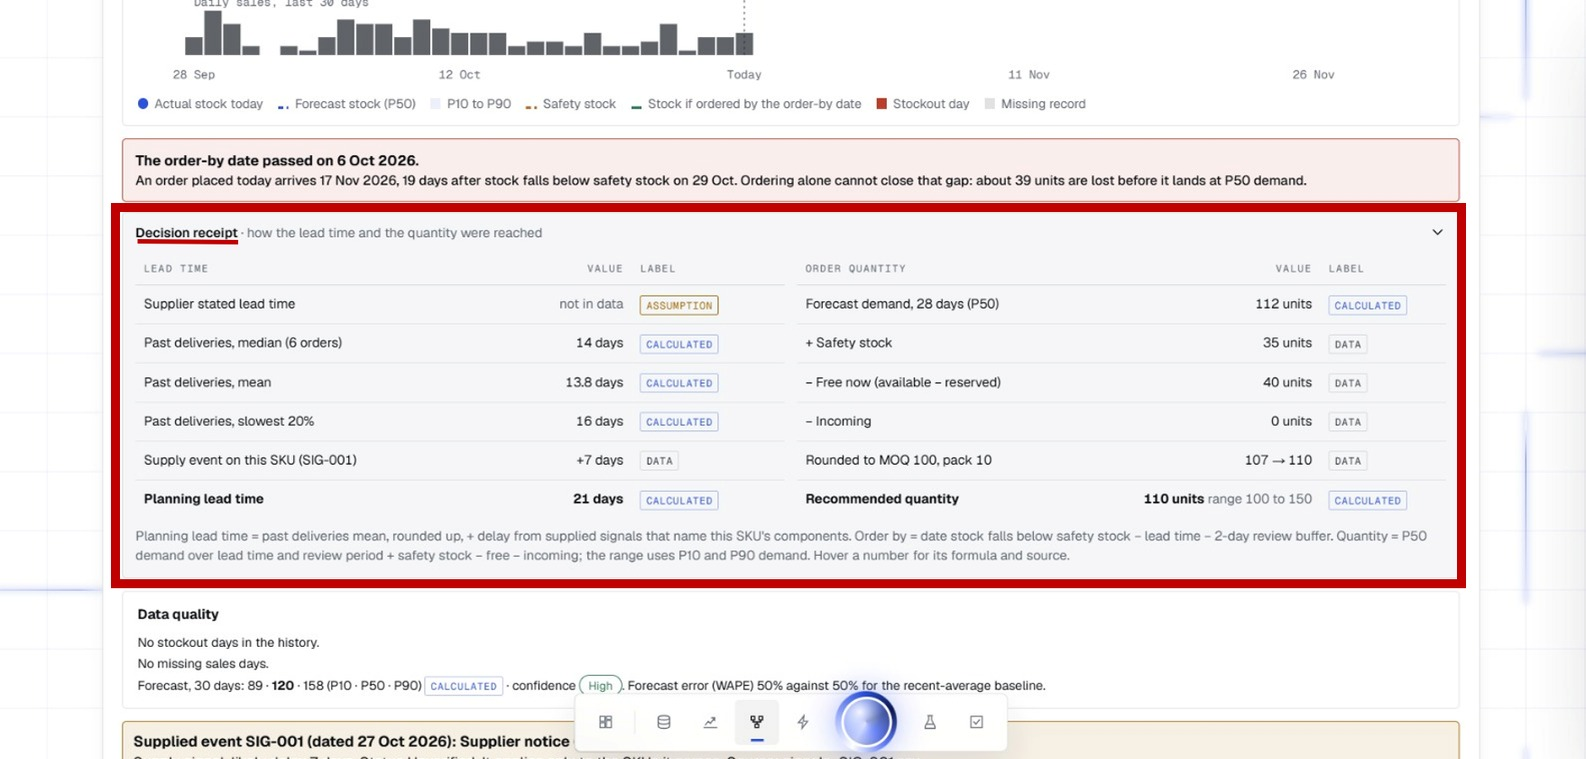
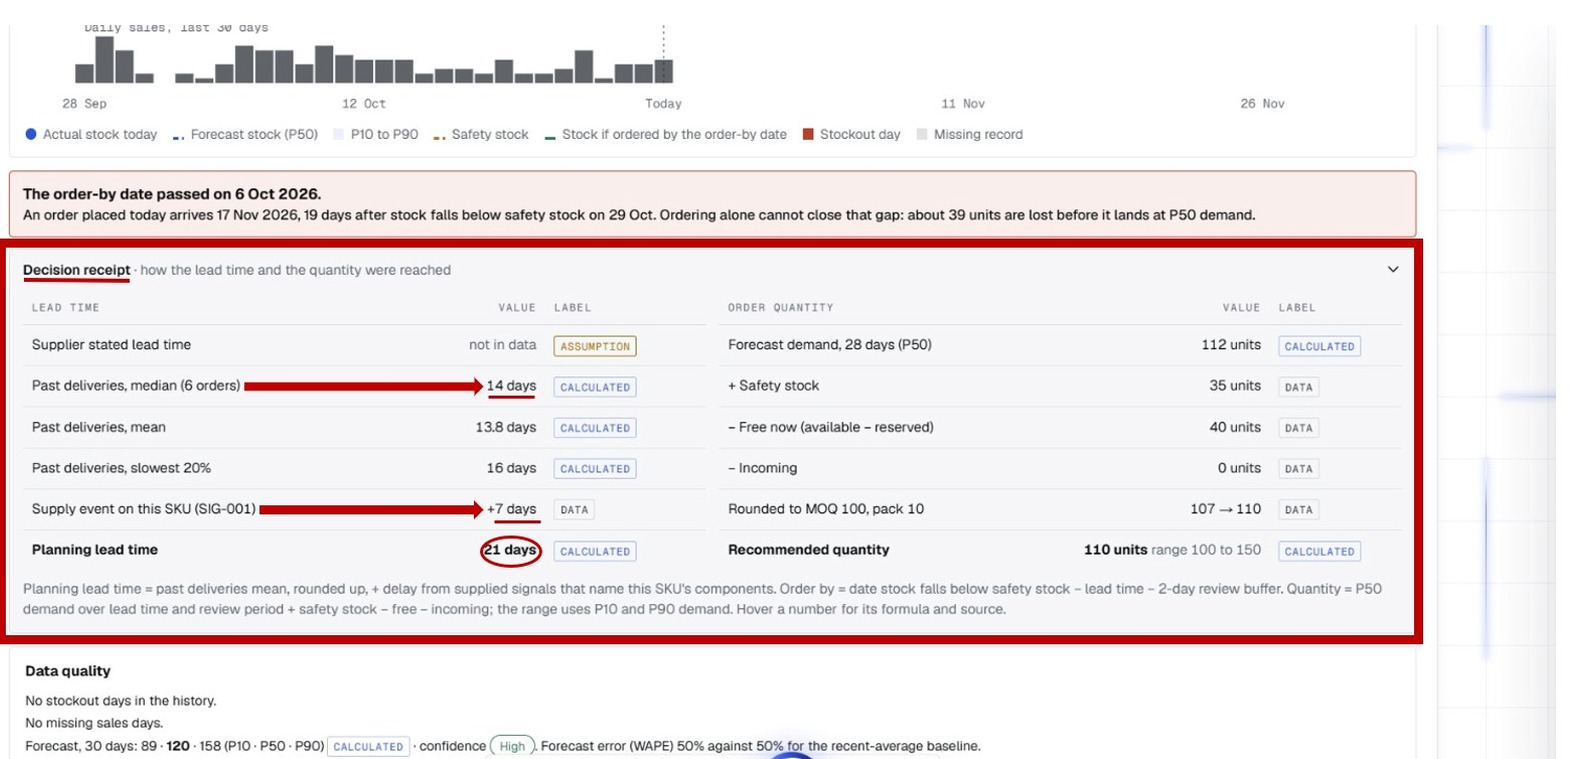
Add decision log slide, update receipt screenshot

diff --git a/index.html b/index.html
@@ -859,6 +859,7 @@ body.editing #stage { cursor: default; }
     ['disrupt-top', 'Disruptions', 'Outside news that delays deliveries or changes demand.', 870, [816, 330]],
     ['disrupt-time', 'When disruptions hit', 'Each signal’s delay or extra demand over the next 30 days.', 560, [586, 320]],
     ['network', 'Decision receipt', 'How the lead time and the quantity were reached.', 850, [685, 382]],
+    ['log', 'Decision log', 'Every approved decision, frozen at approval and reviewed against actuals.', 850, [760, 330]],
   ];
   const shotCards = SHOTS.map(([img, title, line, perchX, look], i) => ({ key: 'shot-' + img, tone: 'white', shot: { perchX, look },
     html: `${hdrW('OUR FEATURES', '%N%')}
@@ -872,8 +873,8 @@ body.editing #stage { cursor: default; }
     <div class="shot vid"><video src="media/demo.mp4" muted playsinline preload="auto"></video><div class="vbar"><i></i></div><div class="vhint">CLICK VIDEO TO PAUSE</div></div>
     ${count('%N%')}` };
   const bot = S.splice(S.findIndex(c => c.key === 'bot'), 1)[0];
-  const receiptCard = shotCards.pop();
-  S.splice(2, 0, ...shotCards, bot, videoCard, receiptCard);
+  const afterDemo = shotCards.splice(-2); // decision receipt + decision log
+  S.splice(2, 0, ...shotCards, bot, videoCard, ...afterDemo);
   S.forEach((c, i) => { const n = String(i + 1).padStart(2, '0'); c.html = c.html.replaceAll('%N%', n).replaceAll('%T%', String(S.length)); });
   window.PITCH = S;
 })();
@@ -921,10 +922,11 @@ body.editing #stage { cursor: default; }
   SLIDES.push({ ...byKey('problem'), anchors: [onTop(124, 262, 44, 'point', [343, 330]), onTop(343, 262, 44, 'tada', [600, 300])], stepStyle: 'hop', loop: true });
   SLIDES.push({ ...byKey('solution'), anchors: [hover(479, 146, 46, 'present', [479, 360])] });
   const shotSlide = s => ({ ...s, anchors: [onTop(s.shot.perchX, 160, 34, 'point', s.shot.look)] });
-  P.filter(s => s.shot && s.key !== 'shot-network').forEach(s => SLIDES.push(shotSlide(s)));
+  const AFTER_DEMO = ['shot-network', 'shot-log'];
+  P.filter(s => s.shot && !AFTER_DEMO.includes(s.key)).forEach(s => SLIDES.push(shotSlide(s)));
   SLIDES.push({ ...byKey('bot'), anchors: [hover(118, 300, 70, 'present', [560, 280])], talk: true, loop: true });
   SLIDES.push({ ...byKey('demo'), anchors: [onTop(880, 160, 34, 'think', [480, 370])] });
-  SLIDES.push(shotSlide(byKey('shot-network')));
+  AFTER_DEMO.forEach(k => SLIDES.push(shotSlide(byKey(k))));
   SLIDES.push({ ...byKey('different'), anchors: [hover(880, 96, 40, 'point', [700, 330])] });
   SLIDES.push({ ...byKey('perf'), anchors: [onTop(700, 176, 34, 'point', [355, 350])] });
   SLIDES.push({ ...byKey('trust'), anchors: [onTop(387, 81, 22, 'perch', [700, 81])], chain: [1, 2, 3, 4, 5, 6].map(i => onTop(387, 81 + i * 64, 22, i === 6 ? 'tada' : 'perch', [700, 81 + i * 64])), chainMark: 'box', loop: true });
